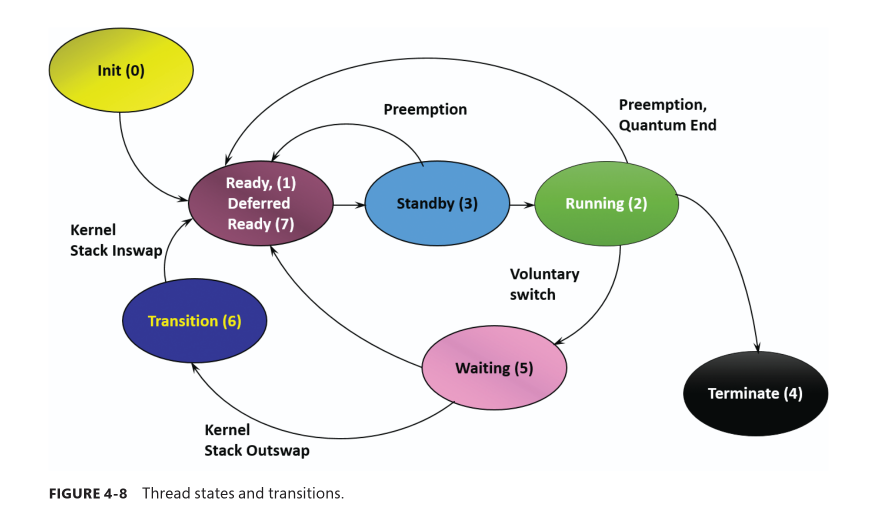
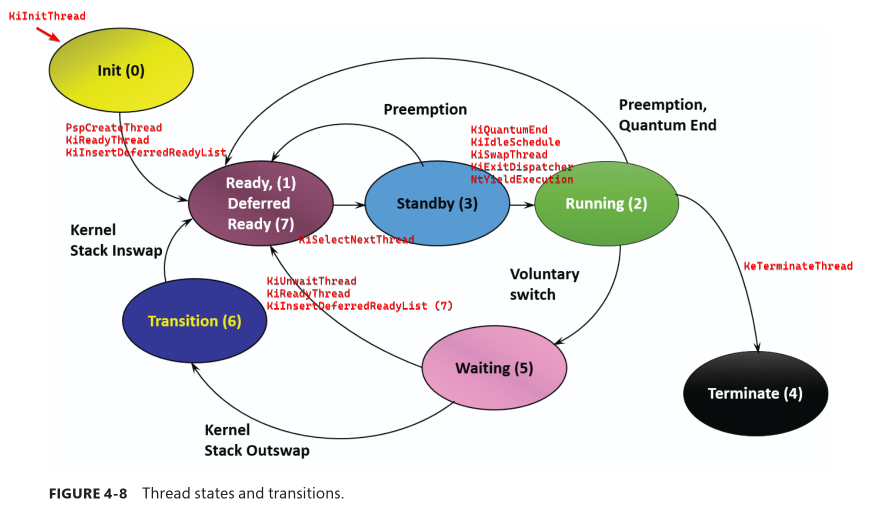
add functions to image, extend _KTHREAD_STATE

diff --git a/threads/thread-scheduling/thread-states.md b/threads/thread-scheduling/thread-states.md
@@ -9,13 +9,13 @@ The state shows the threads scheduler state, the wait reason shows why a waiting
 ```c
 lkd> dt nt!_KTHREAD_STATE
    Initialized = 0n0 // This state is used internally while a thread is being created
-   Ready = 0n1 // A thread in the ready state is waiting to execute or to be in-swapped after completing a wait. When looking for a thread to execute, the dispatcher considers only the threads in the ready state
-   Running = 0n2 // After the dispatcher performs a context switch to a thread, the thread enters the running state and executes. The thread’s execution continues until its quantum ends (and an other thread at the same priority is ready to run), it is preempted by a higher-priority thread, it terminates, it yields execution, or it voluntarily enters the waiting state.
+   Ready = 0n1 // Queued on Prcb->DispatcherReadyListHead. A thread in the ready state is waiting to execute or to be in-swapped after completing a wait. When looking for a thread to execute, the dispatcher considers only the threads in the ready state
+   Running = 0n2 // Pointed at by Prcb->CurrentThread. After the dispatcher performs a context switch to a thread, the thread enters the running state and executes. The thread’s execution continues until its quantum ends (and an other thread at the same priority is ready to run), it is preempted by a higher-priority thread, it terminates, it yields execution, or it voluntarily enters the waiting state
    Standby = 0n3 // A thread in this state has been selected to run next on a particular processor. When the correct conditions exist, the dispatcher performs a context switch to this thread. Only one thread can be in the standby state for each processor on the system. Note that a thread can be preempted out of the standby state before it ever executes (if, for example, a higher-priority thread becomes runnable before the standby thread begins execution)
    Terminated = 0n4 // When a thread finishes executing, it enters this state. After the thread is terminated, the executive thread object (the data structure in system memory that describes the thread) might or might not be deallocated. The object manager sets the policy regarding when to delete the object. For example, the object remains if there are any open handles to the thread. A thread can also enter the terminated state from other states if it’s killed explicitly by some other thread, for example, by calling the TerminateThread Windows API
-   Waiting = 0n5 // A thread can enter the waiting state in several ways: A thread can voluntarily wait for an object to synchronize its execution, the OS can wait on the thread’s behalf (such as to resolve a paging I/O), or an environment subsystem can direct the thread to suspend itself. When the thread’s wait ends, depending on its priority, the thread either begins running immediately or is moved back to the ready state
-   Transition = 0n6 // A thread enters the transition state if it is ready for execution but its kernel stack is paged out of memory. After its kernel stack is brought back into memory, the thread enters the ready state
-   DeferredReady = 0n7 // This state is used for threads that have been selected to run on a specific processor but have not actually started running there. This state exists so that the kernel can minimize the amount of time the per-processor lock on the scheduling database is held
+   Waiting = 0n5 // Queued on WaitList->WaitBlock. A thread can enter the waiting state in several ways: A thread can voluntarily wait for an object to synchronize its execution, the OS can wait on the thread’s behalf (such as to resolve a paging I/O), or an environment subsystem can direct the thread to suspend itself. When the thread’s wait ends, depending on its priority, the thread either begins running immediately or is moved back to the ready state
+   Transition = 0n6 // Queued on KiStackInSwapList. A thread enters the transition state if it is ready for execution but its kernel stack is paged out of memory. After its kernel stack is brought back into memory, the thread enters the ready state
+   DeferredReady = 0n7 // Pointed at by Prcb->DeferredReadyListHead. This state is used for threads that have been selected to run on a specific processor but have not actually started running there. This state exists so that the kernel can minimize the amount of time the per-processor lock on the scheduling database is held
    GateWaitObsolete = 0n8
    WaitingForProcessInSwap = 0n9
 ```
